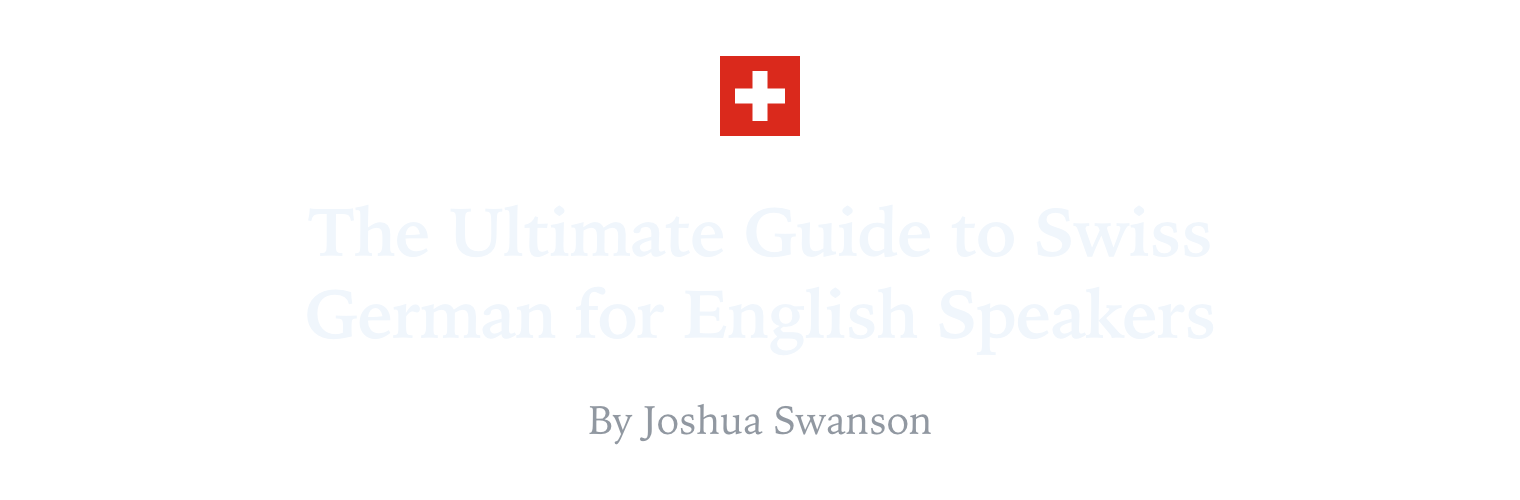
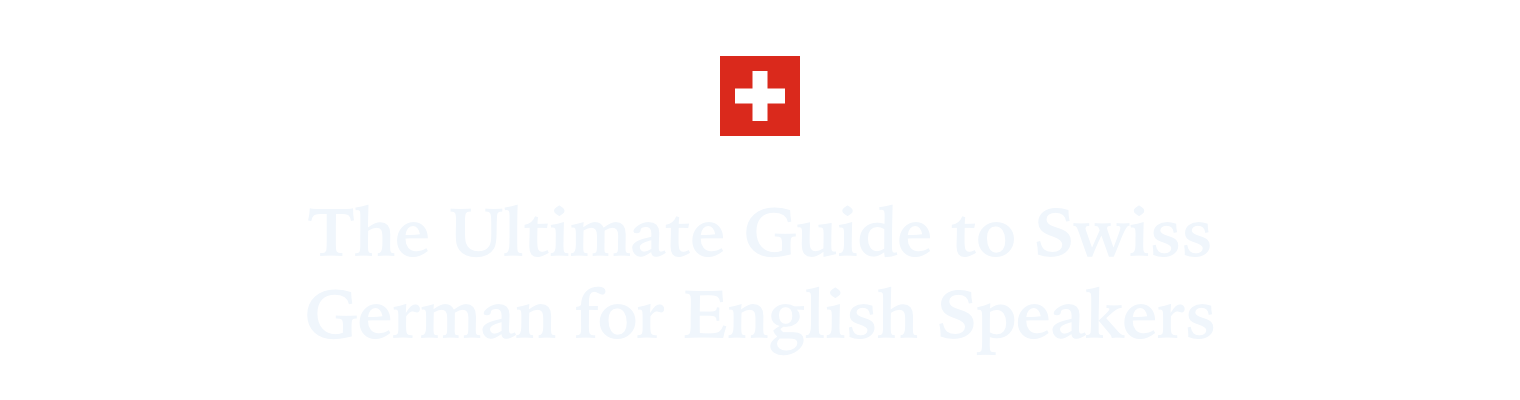
Remove the byline from the README header

Changed region(s): [[0.4638, 0.09, 0.5257, 0.36], [0.3711, 0.81, 0.6184, 0.9]]

diff --git a/README.md b/README.md
@@ -2,7 +2,7 @@
   <a href="https://joshuaswanson.github.io/swiss-german/">
     <picture>
       <source media="(prefers-color-scheme: dark)" srcset="assets/readme-header-dark.png">
-      <img src="assets/readme-header-light.png" alt="The Ultimate Guide to Swiss German for English Speakers, by Joshua Swanson" width="760">
+      <img src="assets/readme-header-light.png" alt="The Ultimate Guide to Swiss German for English Speakers" width="760">
     </picture>
   </a>
 </p>
